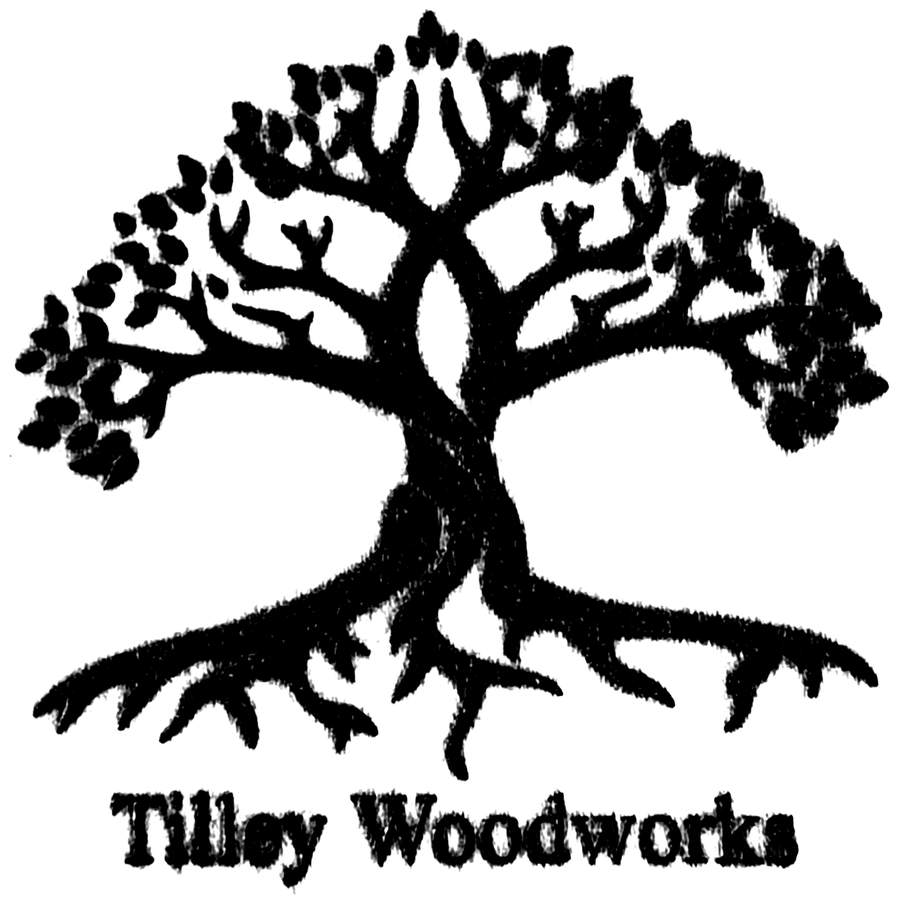
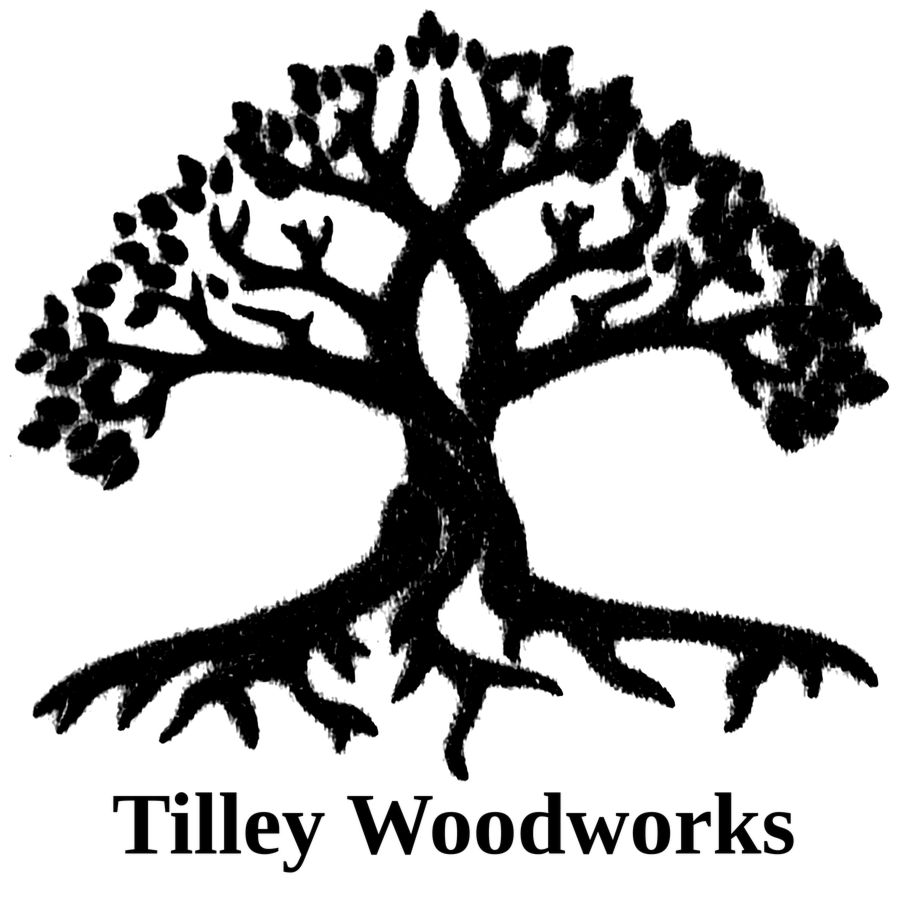
Crisp lettering in the background watermark so the name reads clearly
Claude-Session: https://claude.ai/code/session_01N7qQZ8rs7hhLUHw3A14kMh

Changed region(s): [[0.3737, 0.8711, 0.9032, 0.9644], [0.1246, 0.8711, 0.3737, 0.9956]]

diff --git a/assets/site.css b/assets/site.css
@@ -52,8 +52,8 @@ a { color: inherit; }
 body:not(.admin)::before {
   content: ""; position: fixed; inset: 0; z-index: -1; pointer-events: none;
   background-color: var(--ink);
-  -webkit-mask: url("../images/tree-watermark.png") center / min(86vw, 82vh) no-repeat;
-          mask: url("../images/tree-watermark.png") center / min(86vw, 82vh) no-repeat;
+  -webkit-mask: url("../images/tree-watermark.png?v=2") center / min(86vw, 82vh) no-repeat;
+          mask: url("../images/tree-watermark.png?v=2") center / min(86vw, 82vh) no-repeat;
   opacity: 0.12;
 }
 @media (prefers-color-scheme: dark) { body:not(.admin)::before { opacity: 0.14; } }
